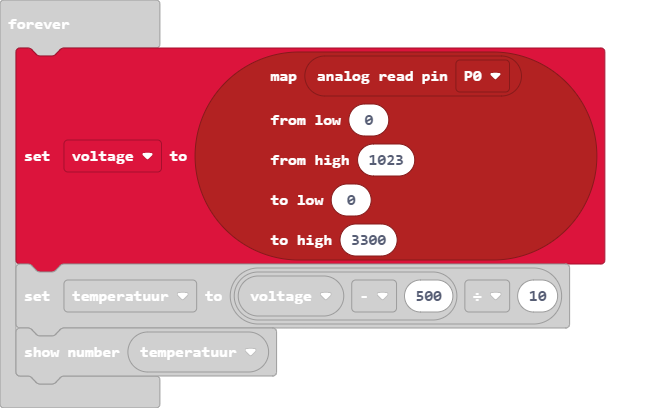
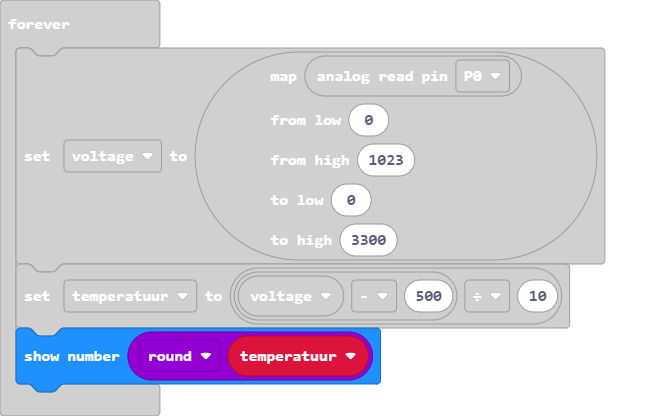
Show integer of temperature

diff --git a/main.ts b/main.ts
@@ -9,5 +9,5 @@ basic.forever(function () {
     3300
     )
     temperatuur = (voltage - 500) / 10
-    basic.showNumber(temperatuur)
+    basic.showNumber(Math.round(temperatuur))
 })
